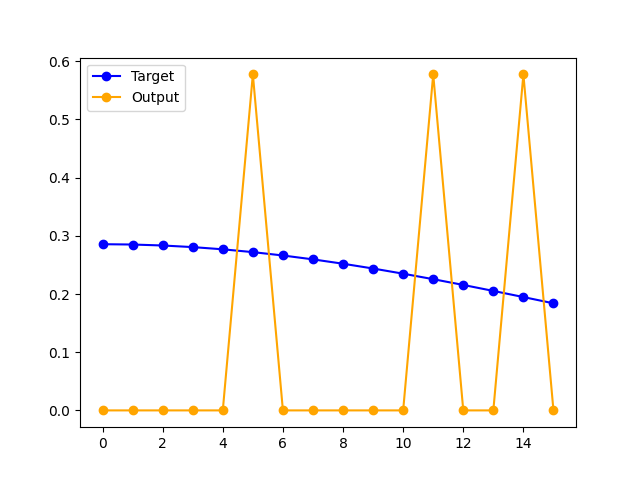
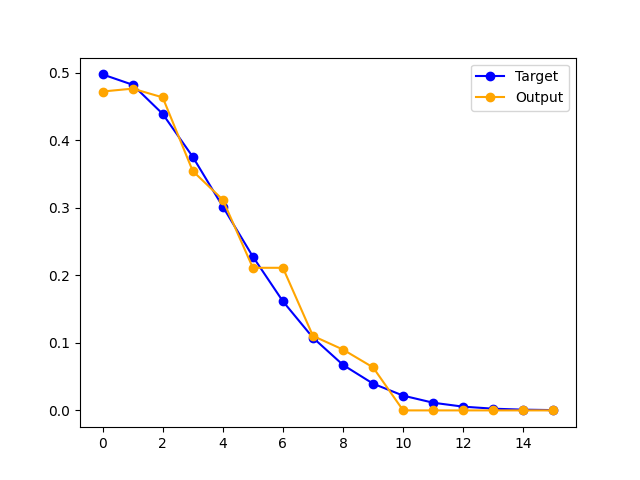
Update QSP result

diff --git a/experiments/qsp_state_prep.py b/experiments/qsp_state_prep.py
@@ -12,7 +12,7 @@ def get_argparse():
     parser = argparse.ArgumentParser()
     parser.add_argument('-n', '--system_nqubits', default=4)
     parser.add_argument('-err', '--error', default=1e-6)
-    parser.add_argument('-s', '--sigma', default=1.0)
+    parser.add_argument('-s', '--sigma', default=0.25)
     parser.add_argument('-f', '--figure', default='../results/qsp_stateprep_output.png',
                         help='Output file for the visualization')
     return parser.parse_args()
